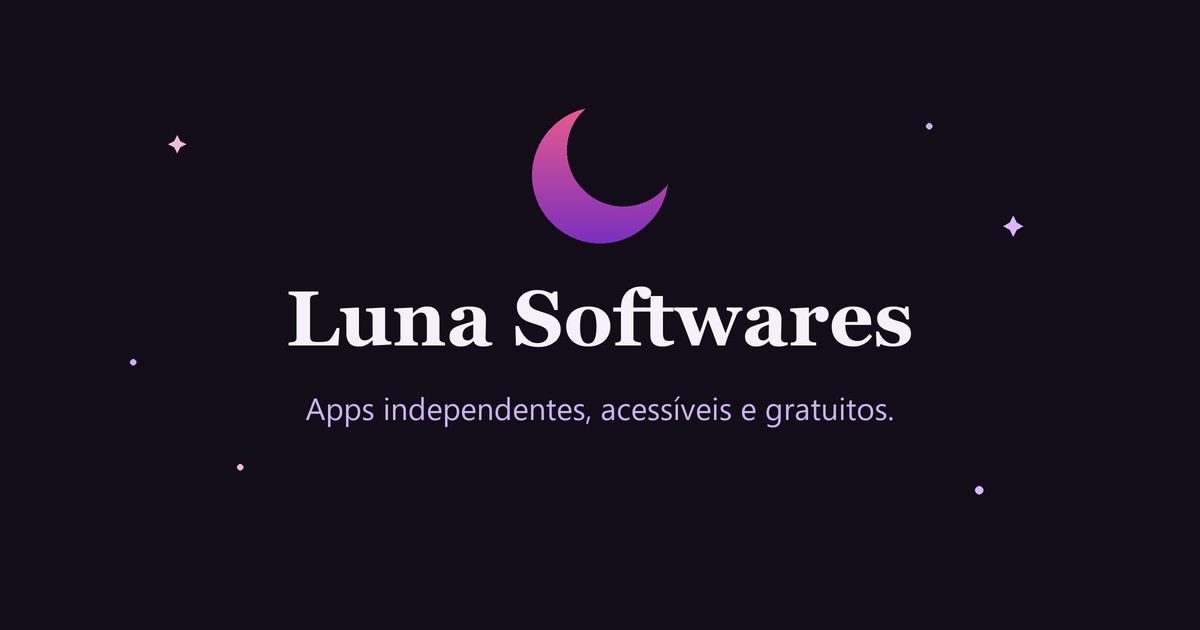
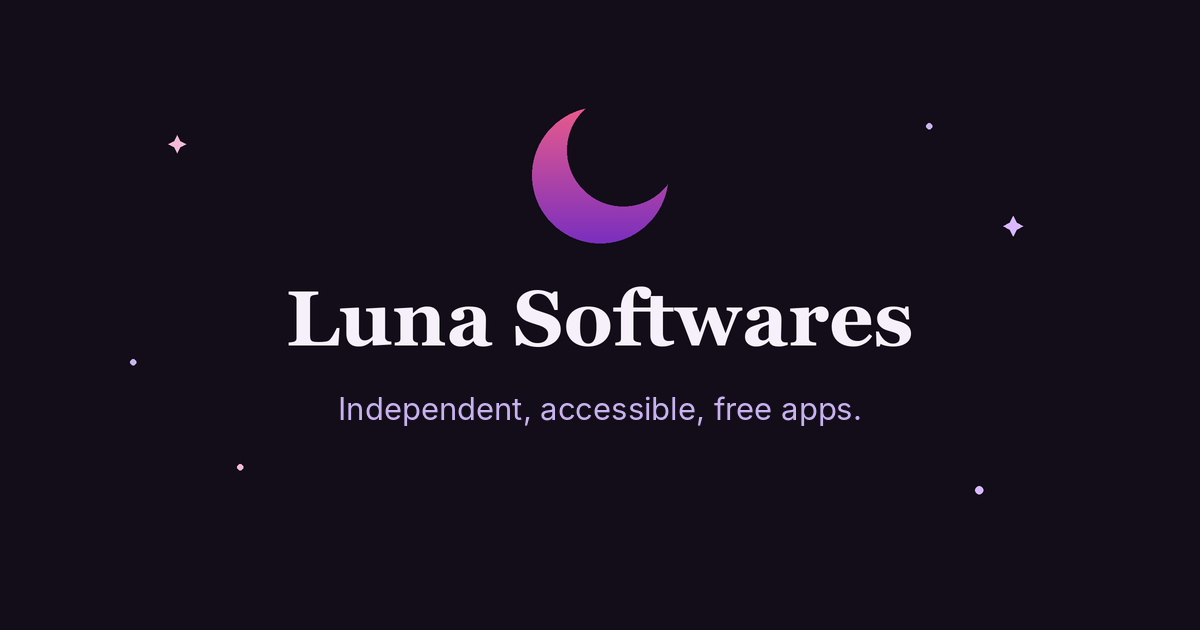
fix: website translation to EN

Changed region(s): [[0.2467, 0.6333, 0.74, 0.6937]]

diff --git a/links/index.html b/links/index.html
@@ -1,41 +1,48 @@
 <!doctype html>
-<html lang="pt-BR">
+<html lang="en">
+
 <head>
   <meta charset="utf-8">
   <meta name="viewport" content="width=device-width, initial-scale=1">
   <title>Luna Softwares · links</title>
-  <meta name="description" content="Apps independentes, acessíveis e gratuitos.">
+  <meta name="description" content="Independent, accessible, free apps.">
   <meta property="og:type" content="website">
-  <meta property="og:locale" content="pt_BR">
+  <meta property="og:locale" content="en_US">
   <meta property="og:title" content="Luna Softwares">
-  <meta property="og:description" content="Apps independentes, acessíveis e gratuitos.">
+  <meta property="og:description" content="Independent, accessible, free apps.">
   <meta property="og:image" content="https://lunasoftwares.com/og-image.png">
   <meta property="og:image:type" content="image/png">
   <meta property="og:image:width" content="1200">
   <meta property="og:image:height" content="630">
-  <meta property="og:image:alt" content="Lua crescente rosa e roxa acima do nome Luna Softwares">
+  <meta property="og:image:alt" content="Pink and purple crescent moon above the name Luna Softwares">
   <meta name="twitter:card" content="summary_large_image">
   <link rel="icon" href="../favicon.svg" type="image/svg+xml">
   <link rel="stylesheet" href="styles.css">
   <script src="script.js" defer></script>
 </head>
+
 <body>
   <main class="linktree">
     <svg width="390" height="260" viewBox="0 0 390 260" fill="none" aria-hidden="true" class="stars">
       <path d="M40 60l2 6 6 2-6 2-2 6-2-6-6-2 6-2z" fill="#F5B8DA"></path>
       <path d="M338 120l1.5 4.5 4.5 1.5-4.5 1.5-1.5 4.5-1.5-4.5-4.5-1.5 4.5-1.5z" fill="#D9B8FF"></path>
       <circle cx="300" cy="44" r="2" fill="#C9B3F0"></circle>
-      <circle cx="70" cy="190" r="1.5" fill="#F5B8DA"></circle>
+      <circle cx="26" cy="122" r="1.5" fill="#F5B8DA"></circle>
       <circle cx="356" cy="212" r="2" fill="#D9B8FF"></circle>
     </svg>
 
     <header class="profile">
-      <svg width="84" height="84" viewBox="0 0 84 84" aria-hidden="true">
-        <defs><linearGradient id="lua-luna" x1="0" y1="0" x2="1" y2="1"><stop offset="0" stop-color="#E85A8C"></stop><stop offset="1" stop-color="#7A2FBE"></stop></linearGradient></defs>
-        <path d="M52 8a34 34 0 1 0 24 56A28 28 0 0 1 52 8z" fill="url(#lua-luna)"></path>
+      <svg width="84" height="84" viewBox="9.5 11.4 43.2 43.2" aria-hidden="true">
+        <defs>
+          <linearGradient id="lua-luna" x1="0" y1="0" x2="0" y2="1">
+            <stop offset="0" stop-color="#E85A8C"></stop>
+            <stop offset="1" stop-color="#7A2FBE"></stop>
+          </linearGradient>
+        </defs>
+        <path d="M23.13 11.51A22.33 22.33 0 1 0 52.66 40.47A22.9 22.9 0 0 1 23.13 11.51z" fill="url(#lua-luna)"></path>
       </svg>
       <h1 class="title">Luna Softwares</h1>
-      <p class="tagline">Apps independentes, acessíveis e gratuitos.</p>
+      <p class="tagline">Independent, accessible, free apps.</p>
     </header>
 
     <section aria-labelledby="t-apps" class="apps">
@@ -46,39 +53,52 @@
           <img src="magic-luna.svg" alt="" class="magic-icon">
           <div class="app-info">
             <h3 class="app-title">Magic Luna</h3>
-            <span class="app-meta">Windows · grátis · código aberto</span>
+            <span class="app-meta">Windows · open source</span>
           </div>
         </div>
-        <p class="description">Converte imagens e PDFs entre formatos no seu computador, sem enviar nada para a internet.</p>
-        <a href="https://magicluna.alessandrabrum.com/" class="primary-link">Conhecer o Magic Luna<span class="visually-hidden"> (abre em nova aba)</span></a>
+        <p class="description">Convert images and PDFs among formats on your computer, without uploading
+          anything. Your files never leave your device.</p>
+        <a target="_blank" rel="noopener noreferrer" href="https://magicluna.alessandrabrum.com/"
+          class="primary-link">Explore Magic Luna<span class="visually-hidden"> (opens in a new tab)</span></a>
       </article>
 
       <article class="app-card">
         <div class="app-heading">
           <div aria-hidden="true" class="soon-icon">
-            <svg width="32" height="32" viewBox="0 0 24 24"><path d="M15 3a9 9 0 1 0 6 15.6A7.5 7.5 0 0 1 15 3z" fill="#E8B47E"></path></svg>
+            <svg width="32" height="32" viewBox="0 0 24 24">
+              <path d="M15 3a9 9 0 1 0 6 15.6A7.5 7.5 0 0 1 15 3z" fill="#E8B47E"></path>
+            </svg>
           </div>
           <div class="app-info">
-            <h3 class="app-title">Grimório Noturno</h3>
-            <span class="app-meta">App web · grátis</span>
+            <h3 class="app-title" lang="pt-BR">Grimório Noturno</h3>
+            <span class="app-meta">Web app · under development</span>
           </div>
         </div>
-        <p class="description">Entenda cartas de Magic na mesa de jogo, com leitura em voz alta e custo de mana em palavras.</p>
-        <a href="http://grimorionoturno.alessandrabrum.com/" class="primary-link">Conhecer o Grimório Noturno</a>
+        <p class="description"><i>Magic: The Gathering</i> cards read aloud.</p>
+        <a target="_blank" rel="noopener noreferrer" href="https://grimorionoturno.lunasoftwares.com/"
+          class="primary-link">Explore Grimório Noturno<span class="visually-hidden"> (opens in a new tab)</span></a>
       </article>
     </section>
 
-    <section aria-labelledby="t-autora" class="author">
-      <h2 id="t-autora" class="section-title">Quem faz</h2>
-      <p class="description"><a href="https://links.alessandrabrum.com/">Alessandra Brum</a>, desenvolvedora front-end e designer de UX, com foco em acessibilidade.</p>
+    <section aria-labelledby="t-author" class="author">
+      <h2 id="t-author" class="section-title">Made by</h2>
+      <p class="description"><a target="_blank" rel="noopener noreferrer"
+          href="https://links.alessandrabrum.com/">Alessandra Brum<span class="visually-hidden"> (opens in a new
+            tab)</span></a>, UX-driven Front-end Developer | Digital Accessibility.</p>
       <ul class="social-links">
-        <li><a href="https://alessandrabrum.com/" class="social-link">Portfólio</a></li>
-        <li><a href="https://linkedin.com/in/AlessandraBrum" class="social-link">LinkedIn</a></li>
-        <li><a href="https://github.com/AlessandraBrum" class="social-link">GitHub</a></li>
+        <li><a target="_blank" rel="noopener noreferrer" href="https://alessandrabrum.com/"
+            class="social-link">Portfolio<span class="visually-hidden"> (opens in a new tab)</span></a></li>
+        <li><a target="_blank" rel="noopener noreferrer" href="https://linkedin.com/in/AlessandraBrum"
+            class="social-link">LinkedIn<span class="visually-hidden"> (opens in a new tab)</span></a></li>
+        <li><a target="_blank" rel="noopener noreferrer" href="https://github.com/AlessandraBrum"
+            class="social-link">GitHub<span class="visually-hidden"> (opens in a new tab)</span></a></li>
       </ul>
     </section>
 
-    <footer class="footer">© 2026 Luna Softwares · <a href="https://links.alessandrabrum.com/">Alessandra Brum</a></footer>
+    <footer class="footer">© 2026 Luna Softwares · <a target="_blank" rel="noopener noreferrer"
+        href="https://links.alessandrabrum.com/">Alessandra Brum<span class="visually-hidden"> (opens in a new
+          tab)</span></a></footer>
   </main>
 </body>
+
 </html>

diff --git a/index.html b/index.html
@@ -1,19 +1,19 @@
 <!doctype html>
-<html lang="pt-BR">
+<html lang="en">
 <head>
   <meta charset="utf-8">
   <meta name="viewport" content="width=device-width, initial-scale=1">
   <title>Luna Softwares · links</title>
-  <meta name="description" content="Apps independentes, acessíveis e gratuitos.">
+  <meta name="description" content="Independent, accessible, free apps.">
   <meta property="og:type" content="website">
-  <meta property="og:locale" content="pt_BR">
+  <meta property="og:locale" content="en_US">
   <meta property="og:title" content="Luna Softwares">
-  <meta property="og:description" content="Apps independentes, acessíveis e gratuitos.">
+  <meta property="og:description" content="Independent, accessible, free apps.">
   <meta property="og:image" content="https://lunasoftwares.com/og-image.png">
   <meta property="og:image:type" content="image/png">
   <meta property="og:image:width" content="1200">
   <meta property="og:image:height" content="630">
-  <meta property="og:image:alt" content="Lua crescente rosa e roxa acima do nome Luna Softwares">
+  <meta property="og:image:alt" content="Pink and purple crescent moon above the name Luna Softwares">
   <meta name="twitter:card" content="summary_large_image">
   <link rel="icon" href="favicon.svg" type="image/svg+xml">
   <style>
@@ -165,6 +165,7 @@
       height: 1px;
       overflow: hidden;
       clip: rect(0 0 0 0);
+      white-space: nowrap;
     }
 
     .soon-icon {
@@ -254,17 +255,17 @@
       <path d="M40 60l2 6 6 2-6 2-2 6-2-6-6-2 6-2z" fill="#F5B8DA"></path>
       <path d="M338 120l1.5 4.5 4.5 1.5-4.5 1.5-1.5 4.5-1.5-4.5-4.5-1.5 4.5-1.5z" fill="#D9B8FF"></path>
       <circle cx="300" cy="44" r="2" fill="#C9B3F0"></circle>
-      <circle cx="70" cy="190" r="1.5" fill="#F5B8DA"></circle>
+      <circle cx="26" cy="122" r="1.5" fill="#F5B8DA"></circle>
       <circle cx="356" cy="212" r="2" fill="#D9B8FF"></circle>
     </svg>
 
     <header class="profile">
-      <svg width="84" height="84" viewBox="0 0 84 84" aria-hidden="true">
-        <defs><linearGradient id="lua-luna" x1="0" y1="0" x2="1" y2="1"><stop offset="0" stop-color="#E85A8C"></stop><stop offset="1" stop-color="#7A2FBE"></stop></linearGradient></defs>
-        <path d="M52 8a34 34 0 1 0 24 56A28 28 0 0 1 52 8z" fill="url(#lua-luna)"></path>
+      <svg width="84" height="84" viewBox="9.5 11.4 43.2 43.2" aria-hidden="true">
+        <defs><linearGradient id="lua-luna" x1="0" y1="0" x2="0" y2="1"><stop offset="0" stop-color="#E85A8C"></stop><stop offset="1" stop-color="#7A2FBE"></stop></linearGradient></defs>
+        <path d="M23.13 11.51A22.33 22.33 0 1 0 52.66 40.47A22.9 22.9 0 0 1 23.13 11.51z" fill="url(#lua-luna)"></path>
       </svg>
       <h1 class="title">Luna Softwares</h1>
-      <p class="tagline">Apps independentes, acessíveis e gratuitos.</p>
+      <p class="tagline">Independent, accessible, free apps.</p>
     </header>
 
     <section aria-labelledby="t-apps" class="apps">
@@ -275,11 +276,11 @@
           <img src="magic-luna.svg" alt="" class="magic-icon">
           <div class="app-info">
             <h3 class="app-title">Magic Luna</h3>
-            <span class="app-meta">Windows · grátis · código aberto</span>
+            <span class="app-meta">Windows · free · open source</span>
           </div>
         </div>
-        <p class="description">Converte imagens e PDFs entre formatos no seu computador, sem enviar nada para a internet.</p>
-        <a href="https://magicluna.alessandrabrum.com/" class="primary-link">Conhecer o Magic Luna<span class="visually-hidden"> (abre em nova aba)</span></a>
+        <p class="description">Convert images and PDFs between formats on your computer, without uploading anything. Your files never leave your device.</p>
+        <a target="_blank" rel="noopener noreferrer" href="https://magicluna.alessandrabrum.com/" class="primary-link">Explore Magic Luna<span class="visually-hidden"> (opens in a new tab)</span></a>
       </article>
 
       <article class="app-card">
@@ -288,26 +289,26 @@
             <svg width="32" height="32" viewBox="0 0 24 24"><path d="M15 3a9 9 0 1 0 6 15.6A7.5 7.5 0 0 1 15 3z" fill="#E8B47E"></path></svg>
           </div>
           <div class="app-info">
-            <h3 class="app-title">Grimório Noturno</h3>
-            <span class="app-meta">App web · grátis</span>
+            <h3 class="app-title" lang="pt-BR">Grimório Noturno</h3>
+            <span class="app-meta">Web app · free</span>
           </div>
         </div>
-        <p class="description">Entenda cartas de Magic na mesa de jogo, com leitura em voz alta e custo de mana em palavras.</p>
-        <a href="http://grimorionoturno.alessandrabrum.com/" class="primary-link">Conhecer o Grimório Noturno</a>
+        <p class="description">Magic: The Gathering cards read aloud.</p>
+        <a target="_blank" rel="noopener noreferrer" href="https://grimorionoturno.lunasoftwares.com/" class="primary-link">Explore Grimório Noturno<span class="visually-hidden"> (opens in a new tab)</span></a>
       </article>
     </section>
 
-    <section aria-labelledby="t-autora" class="author">
-      <h2 id="t-autora" class="section-title">Quem faz</h2>
-      <p class="description"><a href="https://links.alessandrabrum.com/">Alessandra Brum</a>, desenvolvedora front-end e designer de UX, com foco em acessibilidade.</p>
+    <section aria-labelledby="t-author" class="author">
+      <h2 id="t-author" class="section-title">Made by</h2>
+      <p class="description"><a target="_blank" rel="noopener noreferrer" href="https://links.alessandrabrum.com/">Alessandra Brum<span class="visually-hidden"> (opens in a new tab)</span></a>, front-end developer and UX designer focused on accessibility.</p>
       <ul class="social-links">
-        <li><a href="https://alessandrabrum.com/" class="social-link">Portfólio</a></li>
-        <li><a href="https://linkedin.com/in/AlessandraBrum" class="social-link">LinkedIn</a></li>
-        <li><a href="https://github.com/AlessandraBrum" class="social-link">GitHub</a></li>
+        <li><a target="_blank" rel="noopener noreferrer" href="https://alessandrabrum.com/" class="social-link">Portfolio<span class="visually-hidden"> (opens in a new tab)</span></a></li>
+        <li><a target="_blank" rel="noopener noreferrer" href="https://linkedin.com/in/AlessandraBrum" class="social-link">LinkedIn<span class="visually-hidden"> (opens in a new tab)</span></a></li>
+        <li><a target="_blank" rel="noopener noreferrer" href="https://github.com/AlessandraBrum" class="social-link">GitHub<span class="visually-hidden"> (opens in a new tab)</span></a></li>
       </ul>
     </section>
 
-    <footer class="footer">© 2026 Luna Softwares · <a href="https://links.alessandrabrum.com/">Alessandra Brum</a></footer>
+    <footer class="footer">© 2026 Luna Softwares · <a target="_blank" rel="noopener noreferrer" href="https://links.alessandrabrum.com/">Alessandra Brum<span class="visually-hidden"> (opens in a new tab)</span></a></footer>
   </main>
 </body>
 </html>

diff --git a/links/styles.css b/links/styles.css
@@ -146,6 +146,7 @@ a:hover {
   height: 1px;
   overflow: hidden;
   clip: rect(0 0 0 0);
+  white-space: nowrap;
 }
 
 .soon-icon {
